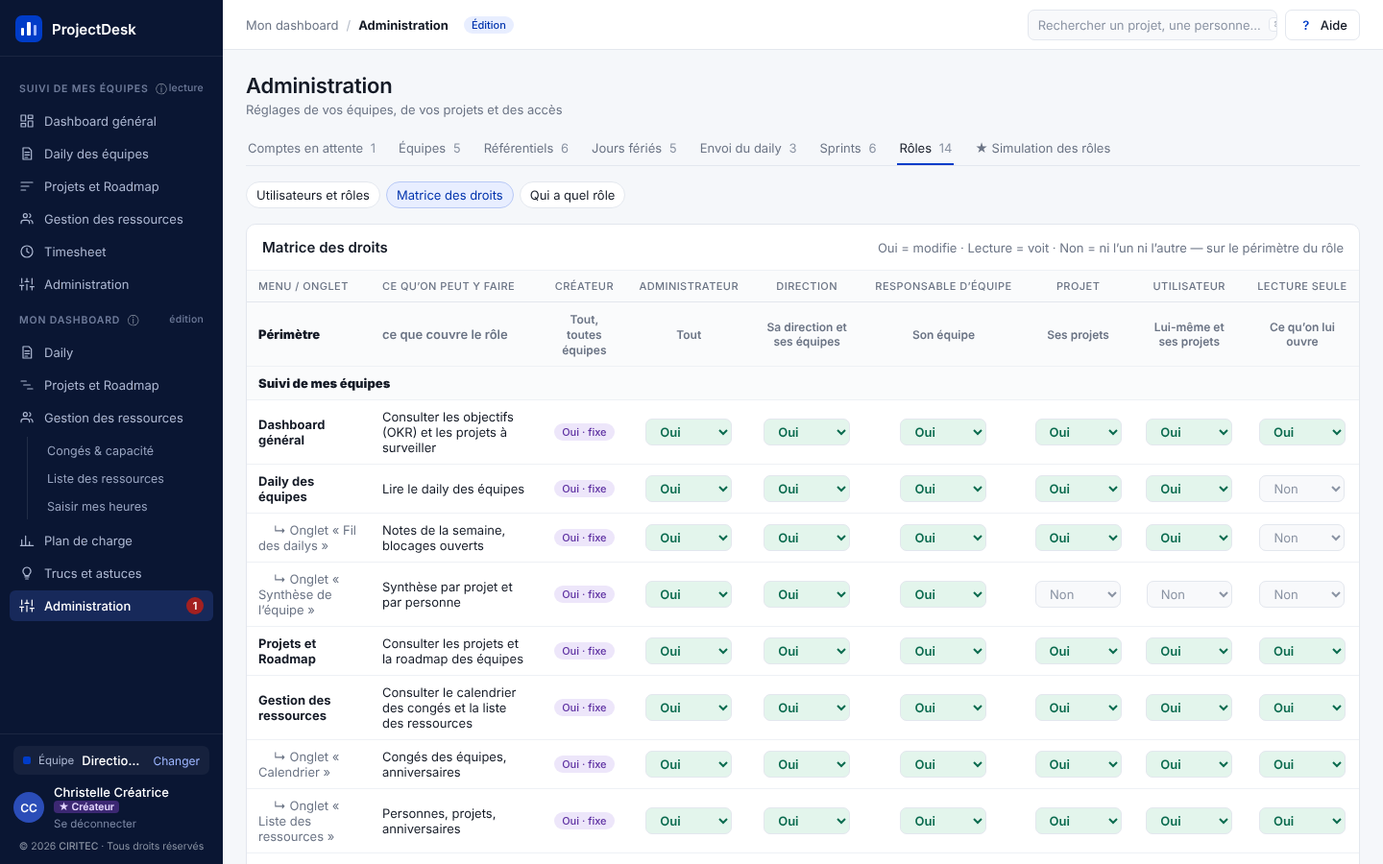
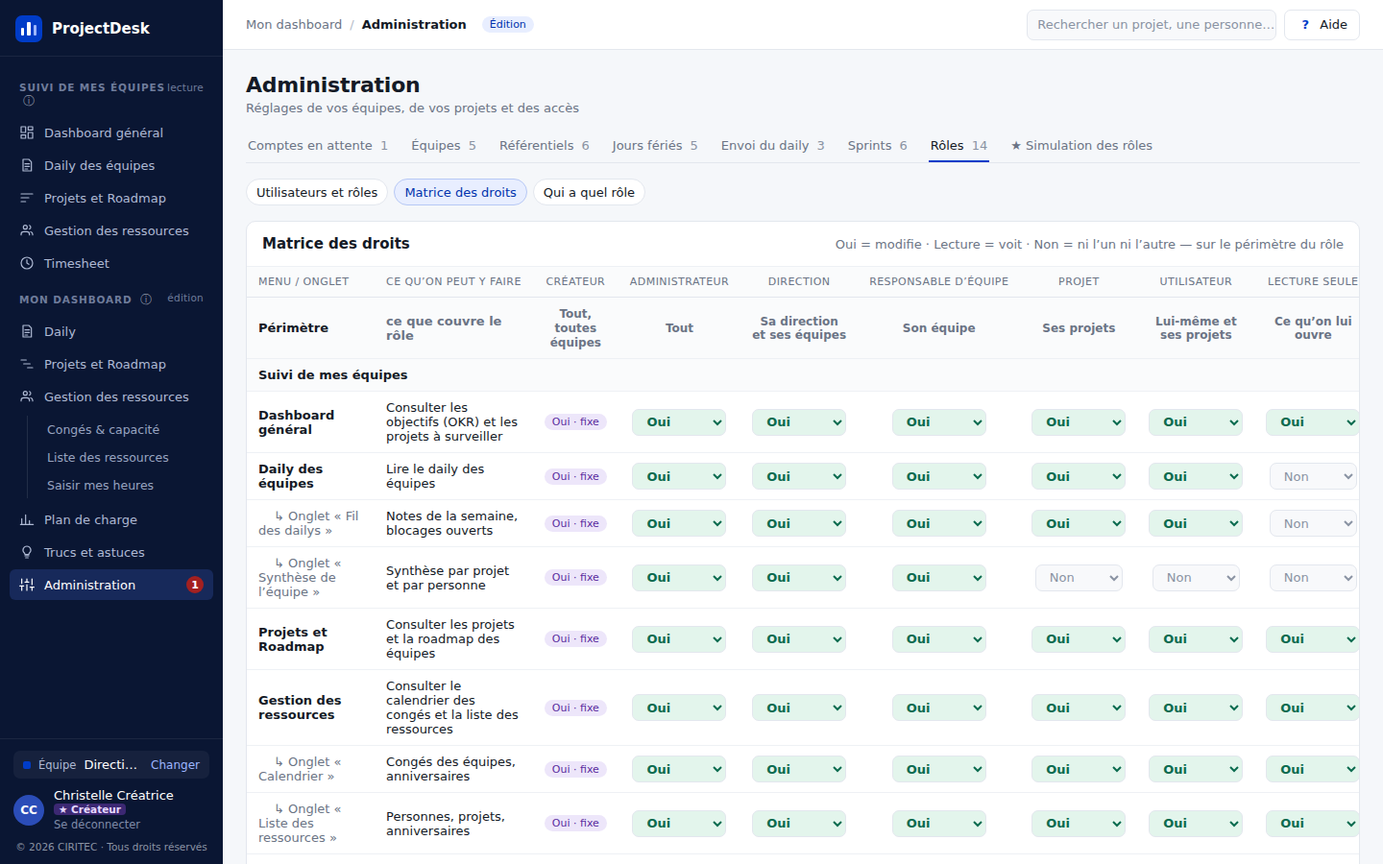
2.24 — Menu Administration retiré de Suivi de mes équipes (tous les rôles)
Claude-Session: https://claude.ai/code/session_0187v8SY8uiT6dnWqjjqJYb6

diff --git a/tests/parcours.js b/tests/parcours.js
@@ -138,27 +138,9 @@ const verifier = (nom, condition, detail = '') => { resultats.push({ nom, ok: !!
     await page.evaluate(() => majUi('ressources', { equipeId: '', statut: '', q: '' })); await page.waitForTimeout(150);
     await capture('05b-ressources-liste');
     await page.click('[data-action="ongletRessources"][data-id="calendrier"]');
-    await aller('administration'); await capture('06-administration');
-    // Rôles et accès (2026-10-16) : un rôle par ligne (sans le créateur), portée, fonctionnalités modifiées / consultées
-    await page.click('[data-action="ongletAdministration"][data-id="roles"]'); await page.waitForTimeout(150);
-    const acces = await page.evaluate(() => ({ roles: [...document.querySelectorAll('.contenu table thead th')].slice(2).map(t => t.textContent.trim()),
-      sections: [...document.querySelectorAll('.contenu table tbody tr.groupe')].map(t => t.textContent.trim()) }));
-    const celluleAcces = '.contenu select[data-action-change="majDroit"][data-role="lecture"][data-droit="daily_equipes"]';
-    const niveauAvant = await page.inputValue(celluleAcces), niveauEssai = niveauAvant === 'lecture' ? 'non' : 'lecture';
-    await page.selectOption(celluleAcces, niveauEssai); await page.waitForTimeout(400);
-    const accesEnregistre = await page.evaluate(n => etat.d.droitsRoles.find(d => d.role === 'lecture' && d.droit === 'daily_equipes').niveau === n, niveauEssai);
-    await page.selectOption(celluleAcces, niveauAvant); await page.waitForTimeout(400);
-    verifier('Administration › Rôles et accès : matrice sans le créateur, sections Suivi de mes équipes / Mon dashboard, modifiable',
-      acces.roles.length === 6 && !acces.roles.includes('Créateur') && acces.roles[0] === 'Administrateur'
-      && acces.sections[1] === 'Suivi de mes équipes' && acces.sections[2] === 'Mon dashboard' && accesEnregistre
-      && await page.evaluate(() => DROITS.filter(d => d.section === 'suivi' && !d.onglet).length === 7), JSON.stringify(acces));
-    // Droits par onglet (maquette matrice-par-onglet/, migration 038) : une ligne « ↳ Onglet » par onglet, modifiable
-    verifier('Matrice des droits : une ligne par onglet (Fil des dailys, Synthèse…), cases modifiables', await page.evaluate(() =>
-      document.querySelectorAll('.contenu .tableau-matrice .ligne-onglet').length === DROITS.filter(d => d.onglet).length
-      && document.querySelector('.contenu .tableau-matrice').textContent.includes('↳ Onglet « Synthèse de l’équipe »')
-      && !document.querySelector('.contenu select[data-role="responsable"][data-droit="onglet_daily_synthese"]').disabled));
-    await capture('06b-administration-roles');
-    await page.click('[data-action="ongletAdministration"][data-id="equipes"]');
+    // Pas de menu Administration dans Suivi de mes équipes, pour aucun rôle (porteur, 2026-10-22)
+    verifier('Suivi de mes équipes : pas de menu Administration', !(await page.$('.laterale [data-action="aller"][data-ecran="administration"]'))
+      && !!(await page.$('.laterale [data-action="aller"][data-ecran="monAdmin"]')));
     await aller('timesheet'); await page.click('[data-action="moisTempsPrecedent"]'); await page.click('[data-action="moisTempsSuivant"]');
     await page.evaluate(() => majUi('moisTemps', { annee: 2026, mois: 8 })); await page.waitForTimeout(150);   // mois des données simulées
     verifier('Timesheet (Suivi de mes équipes) : feuilles du mois par personne', (await texte()).includes('septembre 2026') && (await texte()).includes('Saisi / attendu'));
@@ -167,10 +149,9 @@ const verifier = (nom, condition, detail = '') => { resultats.push({ nom, ok: !!
     /* --- Règle : la section « Suivi de mes équipes » (ex-« Général ») est en lecture seule ---
        Aucun champ, formulaire ou action d'écriture (tous onglets), sauf la validation des feuilles de temps. */
     const ACTIONS_LECTURE = ['aller', 'ouvrirProjet', 'fermer', 'choisirTrimestre', 'filtrerEquipeProjets', 'deplierProjet',
-      'moisPrecedent', 'moisSuivant', 'calendrierAujourdhui', 'moisTempsPrecedent', 'moisTempsSuivant', 'ongletAdministration', 'choisirReferentiel',
+      'moisPrecedent', 'moisSuivant', 'calendrierAujourdhui', 'moisTempsPrecedent', 'moisTempsSuivant',
       'filtrerDailyEquipes', 'dailyEquipesAujourdhui', 'dailyEquipesDecaler', 'filtrerPersonneDaily', 'ongletDailyEquipes',
       'choisirCaseDaily', 'fermerCaseDaily', 'decalerCaseDaily', 'vueCalendrier', 'projetCalendrier',
-      'majDroit',   // Administration › Rôles et accès : matrice des droits modifiable (porteur 2026-10-18)
       'ongletRessources', 'filtrerEquipeRessources', 'filtrerStatutRessources', 'rechercherRessource',
       'ouvrirExportDaily',    // export Excel : lecture seule (téléchargement de ce qui est affiché)
       'validerFeuille', 'renvoyerFeuille'];   // seule exception : validation des feuilles par le responsable (Timesheet)
@@ -178,12 +159,11 @@ const verifier = (nom, condition, detail = '') => { resultats.push({ nom, ok: !!
       (els, permises) => els.map(e => e.dataset.actionChange || e.dataset.actionSaisie || e.dataset.actionEnvoi || e.dataset.action)
         .filter(a => a && !permises.includes(a)), ACTIONS_LECTURE);
     const interdites = [];
-    for (const ecran of ['dashboard', 'projets', 'ressources', 'timesheet', 'dailyEquipes', 'administration']) {
+    for (const ecran of ['dashboard', 'projets', 'ressources', 'timesheet', 'dailyEquipes']) {
       await aller(ecran);
       if (ecran === 'ressources') {
         for (const onglet of ['calendrier', 'liste']) { await page.click(`[data-action="ongletRessources"][data-id="${onglet}"]`); await page.waitForTimeout(150); interdites.push(...await ecritures()); }
-      } else if (ecran === 'administration') {
-        for (const onglet of ['equipes', 'referentiels', 'roles']) { await page.click(`[data-action="ongletAdministration"][data-id="${onglet}"]`); await page.waitForTimeout(150); interdites.push(...await ecritures()); }
+
       } else interdites.push(...await ecritures());
     }
     await aller('projets'); await page.click('tr.cliquable[data-action="ouvrirProjet"]'); await page.waitForTimeout(200);
@@ -850,6 +830,12 @@ const verifier = (nom, condition, detail = '') => { resultats.push({ nom, ok: !!
     const verrou = await page.$eval(cellule('admin', 'roles'), el => el.disabled);
     await page.selectOption(cellule('utilisateur', 'projets'), 'oui'); await page.waitForTimeout(400);
     const enregistre = await page.evaluate(() => etat.d.droitsRoles.find(d => d.role === 'utilisateur' && d.droit === 'projets').niveau === 'oui');
+    const sectionsMatrice = await page.$$eval('.tableau-matrice tbody tr.groupe', t => t.map(x => x.textContent.trim()));
+    verifier('Matrice des droits : sections Suivi de mes équipes / Mon dashboard, une ligne par onglet modifiable',
+      sectionsMatrice.includes('Suivi de mes équipes') && sectionsMatrice.includes('Mon dashboard') && await page.evaluate(() =>
+        document.querySelectorAll('.tableau-matrice .ligne-onglet').length === DROITS.filter(d => d.onglet).length
+        && document.querySelector('.tableau-matrice').textContent.includes('↳ Onglet « Synthèse de l’équipe »')
+        && !document.querySelector('select[data-role="responsable"][data-droit="onglet_daily_synthese"]').disabled), sectionsMatrice.join(' | '));
     await capture('32-matrice-droits');
     await page.selectOption(cellule('utilisateur', 'projets'), 'lecture'); await page.waitForTimeout(400);
     await page.click('[data-action="vueRoles"][data-vue="qui"]'); await page.waitForTimeout(200);
@@ -884,8 +870,7 @@ const verifier = (nom, condition, detail = '') => { resultats.push({ nom, ok: !!
     });
     verifier('Matrice par menu : menu de Suivi masqué si « Non », repli sur l’ancien droit avant la migration 037',
       parMenu.masque && parMenu.repli, JSON.stringify(parMenu));
-    await aller('administration');
-    verifier('Administration › Rôles et accès : onglet absent pour un membre', !(await page.$('[data-action="ongletAdministration"][data-id="roles"]')));
+    verifier('Simulation : pas de menu Administration dans Suivi de mes équipes (membre)', !(await page.$('.laterale [data-ecran="administration"]')));
     await aller('daily'); await page.waitForTimeout(300);
     // Sa note du dernier jour de semaine : dans le texte, ou en « Rappel d'hier » (attribut placeholder) un samedi ou un dimanche
     verifier('Simulation : écrans de la personne (son daily par projet)', (await texte()).includes('SSO & gestion des droits')

diff --git a/app/index.html b/app/index.html
@@ -11,7 +11,7 @@
 <link href="https://fonts.googleapis.com/css2?family=IBM+Plex+Sans:wght@400;500;600;700&family=IBM+Plex+Mono:wght@400;500&display=swap" rel="stylesheet">
 <!-- ?v= : version des fichiers (= version du DAT), à changer à chaque livraison : force le navigateur
      à recharger le code au lieu de réutiliser une ancienne copie en mémoire. -->
-<link rel="stylesheet" href="css/theme.css?v=2.23">
+<link rel="stylesheet" href="css/theme.css?v=2.24">
 </head>
 <body>
   <!-- Toute l'interface est dessinée dans #app par js/coquille.js et js/ecrans/*.js -->
@@ -19,33 +19,33 @@
   <div id="notification" class="notification" role="status"></div>
 
   <!-- Ordre de chargement : configuration, outils, état, puis écrans (qui s'enregistrent dans Ecrans) -->
-  <script src="js/config.js?v=2.23"></script>
-  <script src="js/api.js?v=2.23"></script>
-  <script src="js/calculs.js?v=2.23"></script>
-  <script src="js/etat.js?v=2.23"></script>
-  <script src="js/composants.js?v=2.23"></script>
-  <script src="js/coquille.js?v=2.23"></script>
-  <script src="js/panneau-projet.js?v=2.23"></script>
-  <script src="js/modale.js?v=2.23"></script>
-  <script src="js/excel.js?v=2.23"></script>
-  <script src="js/roles.js?v=2.23"></script>
-  <script src="js/simulation.js?v=2.23"></script>
-  <script src="js/ecrans/connexion.js?v=2.23"></script>
-  <script src="js/ecrans/choix-equipe.js?v=2.23"></script>
-  <script src="js/ecrans/dashboard.js?v=2.23"></script>
-  <script src="js/ecrans/projets.js?v=2.23"></script>
-  <script src="js/ecrans/ressources.js?v=2.23"></script>
-  <script src="js/ecrans/administration.js?v=2.23"></script>
-  <script src="js/ecrans/timesheet.js?v=2.23"></script>
-  <script src="js/ecrans/daily-equipes.js?v=2.23"></script>
-  <script src="js/ecrans/daily.js?v=2.23"></script>
-  <script src="js/ecrans/mes-projets.js?v=2.23"></script>
-  <script src="js/ecrans/conges.js?v=2.23"></script>
-  <script src="js/ecrans/capacite.js?v=2.23"></script>
-  <script src="js/ecrans/liste-ressources.js?v=2.23"></script>
-  <script src="js/ecrans/mon-timesheet.js?v=2.23"></script>
-  <script src="js/ecrans/previsionnel.js?v=2.23"></script>
-  <script src="js/ecrans/mon-admin.js?v=2.23"></script>
-  <script src="js/ecrans/astuces.js?v=2.23"></script>
+  <script src="js/config.js?v=2.24"></script>
+  <script src="js/api.js?v=2.24"></script>
+  <script src="js/calculs.js?v=2.24"></script>
+  <script src="js/etat.js?v=2.24"></script>
+  <script src="js/composants.js?v=2.24"></script>
+  <script src="js/coquille.js?v=2.24"></script>
+  <script src="js/panneau-projet.js?v=2.24"></script>
+  <script src="js/modale.js?v=2.24"></script>
+  <script src="js/excel.js?v=2.24"></script>
+  <script src="js/roles.js?v=2.24"></script>
+  <script src="js/simulation.js?v=2.24"></script>
+  <script src="js/ecrans/connexion.js?v=2.24"></script>
+  <script src="js/ecrans/choix-equipe.js?v=2.24"></script>
+  <script src="js/ecrans/dashboard.js?v=2.24"></script>
+  <script src="js/ecrans/projets.js?v=2.24"></script>
+  <script src="js/ecrans/ressources.js?v=2.24"></script>
+  <script src="js/ecrans/administration.js?v=2.24"></script>
+  <script src="js/ecrans/timesheet.js?v=2.24"></script>
+  <script src="js/ecrans/daily-equipes.js?v=2.24"></script>
+  <script src="js/ecrans/daily.js?v=2.24"></script>
+  <script src="js/ecrans/mes-projets.js?v=2.24"></script>
+  <script src="js/ecrans/conges.js?v=2.24"></script>
+  <script src="js/ecrans/capacite.js?v=2.24"></script>
+  <script src="js/ecrans/liste-ressources.js?v=2.24"></script>
+  <script src="js/ecrans/mon-timesheet.js?v=2.24"></script>
+  <script src="js/ecrans/previsionnel.js?v=2.24"></script>
+  <script src="js/ecrans/mon-admin.js?v=2.24"></script>
+  <script src="js/ecrans/astuces.js?v=2.24"></script>
 </body>
 </html>

diff --git a/app/js/ecrans/administration.js b/app/js/ecrans/administration.js
@@ -1,12 +1,8 @@
 /* ============================================================
-   Suivi de mes équipes › Administration (maquette 04-gAdmin.png) — LECTURE SEULE
-   Onglets Équipes, Référentiels (champs du formulaire de demande retirés le 2026-10-05 :
-   demandes gérées dans Azure DevOps).
-   Règle : la section « Suivi de mes équipes » ne modifie jamais rien. Les
-   modifications se font dans Mon dashboard › Administration
-   (administrateurs globaux ; contrôlé aussi par la base).
-   Les tableaux « Équipes » et « Référentiels » sont partagés avec
-   Mon admin via le paramètre « modifiable ».
+   Administration — tableaux « Équipes » et « Référentiels » de Mon dashboard › Administration
+   (mon-admin.js), consultation ou modification selon le paramètre « modifiable ».
+   Plus de menu Administration dans Suivi de mes équipes (porteur, 2026-10-22).
+   Champs du formulaire de demande retirés le 2026-10-05 (demandes gérées dans Azure DevOps).
    ============================================================ */
 'use strict';
 
@@ -54,34 +50,7 @@ const Administration = {
   }
 };
 
-Ecrans.administration = {
-  titre: 'Administration',
-  section: 'general',
-  rendre() {
-    /* Onglets selon leur droit (matrice, migration 038). « Rôles et accès » (au départ : administrateurs) : matrice
-       des droits sans la colonne Créateur, modifiable avec le droit « roles » (porteur 2026-10-18) — seconde
-       exception à la lecture seule de la section, après la validation des feuilles de temps */
-    const liste = ongletsPermis('administration', [
-      { id: 'equipes', libelle: 'Équipes', compte: etat.d.equipes.length },
-      Administration.ongletReferentiels(),
-      { id: 'roles', libelle: 'Rôles et accès', compte: ROLES_CHOISISSABLES.length }
-    ]);
-    const onglet = ongletAffiche(liste, ui('administration', { onglet: 'equipes' }).onglet);
-    const onglets = onglet ? C.onglets(liste, onglet, 'ongletAdministration') : '';
-    const corps = !onglet ? C.aucunOnglet()
-      : onglet === 'referentiels' ? Administration.referentiels(false)
-      : onglet === 'roles' ? Roles.matrice(false) : Administration.equipes(false);
-    const lienEdition = etat.estAdmin ? `<button class="btn" data-action="aller" data-ecran="monAdmin">Modifier (Mon dashboard › Administration)</button>` : '';
-    return `
-    <div class="ecran">
-      ${C.entete('Administration', 'Équipes et référentiels · consultation', lienEdition)}
-      ${onglets}${corps}
-    </div>`;
-  }
-};
-
 Object.assign(Actions, {
-  ongletAdministration: d => majUi('administration', { onglet: d.id }),
   choisirReferentiel: d => majUi('referentiels', { id: d.id }),
   nouvelleEquipe: () => majEtat({ modale: { type: 'equipe', id: null } }),
   // (modifierEquipe est défini dans modale.js : il charge aussi les membres de l'équipe)

diff --git a/app/js/config.js b/app/js/config.js
@@ -100,13 +100,6 @@ const DROITS = [
     libelle: 'Personnes, projets, anniversaires', repli: 'suivi_ressources' },
   { cle: 'suivi_timesheet', section: 'suivi', menu: 'Timesheet', libelle: 'Consulter les feuilles de temps des équipes', repli: 'general' },
   { cle: 'valider_timesheet', section: 'suivi', menu: 'Timesheet', libelle: 'Valider / renvoyer les feuilles de temps' },
-  { cle: 'suivi_administration', section: 'suivi', menu: 'Administration', libelle: 'Consulter les équipes, les référentiels, les rôles et accès', repli: 'general' },
-  { cle: 'onglet_suivi_equipes', section: 'suivi', menu: 'Administration', onglet: 'Équipes', ecran: 'administration', id: 'equipes',
-    libelle: 'Équipes et membres (consultation)', repli: 'suivi_administration' },
-  { cle: 'onglet_suivi_referentiels', section: 'suivi', menu: 'Administration', onglet: 'Référentiels', ecran: 'administration', id: 'referentiels',
-    libelle: 'Listes de valeurs (consultation)', repli: 'suivi_administration' },
-  { cle: 'onglet_suivi_roles', section: 'suivi', menu: 'Administration', onglet: 'Rôles et accès', ecran: 'administration', id: 'roles',
-    libelle: 'Matrice des droits', repli: 'roles' },
   { cle: 'mon_dashboard', section: 'dashboard', menu: 'Daily · Saisir mes heures', libelle: 'Saisir son daily, ses heures et ses congés' },
   { cle: 'projets', section: 'dashboard', menu: 'Projets et Roadmap', libelle: 'Projets, roadmap, objectifs, sprints, capacité' },
   { cle: 'conges_equipe', section: 'dashboard', menu: 'Congés & capacité', libelle: 'Congés et objectif de jours des autres' },
@@ -287,7 +280,6 @@ const GUIDE_ECRANS = {
   projets: ['Tous les projets, groupés par équipe, en lecture seule.', 'Filtrez par équipe en haut à droite ; un clic sur une ligne ouvre le détail du projet.'],
   ressources: ['Calendrier mensuel des absences et annuaire de toutes les personnes, en lecture seule.',
     'Pour poser un congé : Mon dashboard › Gestion des ressources › Congés & capacité.'],
-  administration: ['Consultation des équipes et des référentiels.', 'Pour les modifier (administrateurs) : Mon dashboard › Administration.'],
   timesheet: ['Heures déclarées par personne sur un mois (saisie mensuelle), avec la complétude et le statut de chaque feuille.', 'Changez de mois avec les flèches.'],
   dailyEquipes: ['Le daily de vos projets pour un jour donné, et les blocages signalés. Le responsable d’une unité voit tous les projets ' +
     'de son unité et des équipes rattachées.', 'Filtrez par projet ; changez de jour avec les flèches. Les absents (congés) sont signalés.'],

diff --git a/app/js/coquille.js b/app/js/coquille.js
@@ -34,8 +34,8 @@ const Coquille = (() => {
     { id: 'dailyEquipes', libelle: 'Daily des équipes', icone: 'daily', droit: 'daily_equipes' },
     { id: 'projets', libelle: 'Projets et Roadmap', icone: 'proj', droit: 'suivi_projets' },
     { id: 'ressources', libelle: 'Gestion des ressources', icone: 'ress', droit: 'suivi_ressources' },
-    { id: 'timesheet', libelle: 'Timesheet', icone: 'time', droit: 'suivi_timesheet' },
-    { id: 'administration', libelle: 'Administration', icone: 'admin', droit: 'suivi_administration' }
+    // Pas d'Administration dans Suivi de mes équipes (porteur, 2026-10-22) : elle est dans Mon dashboard
+    { id: 'timesheet', libelle: 'Timesheet', icone: 'time', droit: 'suivi_timesheet' }
   ];
   const MENU_MOI = [
     { id: 'daily', libelle: 'Daily', icone: 'daily' },

diff --git a/docs/DAT.md b/docs/DAT.md
@@ -138,6 +138,7 @@
 | 2.21    | 2026-10-18 | **Matrice des droits par onglet** (porteur : « attention aux onglets dans chaque page … exemple dans Daily, il y a un onglet fil et un onglet synthèse » ; maquette `matrice-par-onglet/` validée « ok ») : sous chaque menu, une ligne « ↳ Onglet « … » » par onglet, réglable Oui / Lecture / Non (`DROITS`, propriétés `onglet`, `ecran`, `id` ; `Roles.lignesSection`) ; 20 nouveaux droits `onglet_…` (Daily des équipes, Gestion des ressources, Suivi › Administration, Congés & capacité, Plan de charge, Mon dashboard › Administration, Trucs et astuces) ; Comptes en attente, Rôles et Nommer un administrateur reprennent leurs droits existants. Onglet masqué si « Non », menu masqué si tous ses onglets le sont (`ongletPermis`, `ecranOuvert`, `menuOuvert`, `C.aucunOnglet`). Daily des équipes : `voitSynthese` remplacé par le droit `onglet_daily_synthese`. Jours fériés : consultation sans le droit « administration » ; sous-titre de Mon dashboard › Administration simplifié. **Migration 038 à appliquer** (additive : contrainte élargie + 120 lignes `droits_roles`, chacune au niveau de son droit de départ) — d'ici là, chaque onglet reprend le niveau de son droit de départ (`repli`) et sa case est figée. 138 contrôles (§ 3.2, § 4, § 5.2) |
 | 2.22    | 2026-10-22 | **Simulation des rôles alignée sur les 6 rôles d'accès** (porteur : « je n'ai pas les mêmes rôles » ; maquette `simulation-six-roles/` validée « ok ») : cartes Administrateur, Direction, Responsable d'équipe, Projet, Utilisateur, Lecture seule (libellés, descriptions et couleurs de `ROLES_ACCES`) + Compte en attente ; « En tant que » propose toutes les personnes reliées à un compte (celles qui ont le rôle en tête) et le rôle de la carte s'applique le temps de la simulation (`monRole`), ses équipes et projets restant les siens. **Matrice (donnée, pas de code)** : à la demande du porteur, droit `suivi_timesheet` passé à « Non » pour Utilisateur et Lecture seule (menu Timesheet de Suivi de mes équipes réservé à Administrateur, Direction, Responsable d'équipe, Projet). 139 contrôles (§ 2, § 3.3) |
 | 2.23    | 2026-10-22 | **Plan de charge réservé au créateur** (porteur : « plan de charge doit être visible uniquement pour le créateur ») : `Previsionnel.estVisible` = `etat.estCreateur` (menu Mon dashboard › Plan de charge et écran) ; les lignes Plan de charge de la matrice n'ont plus d'effet sur ce menu, le droit « piloter » règle toujours l'envoi du daily. Aucun changement en base. 139 contrôles (§ 3.3) |
+| 2.24    | 2026-10-22 | **Menu Administration retiré de Suivi de mes équipes**, pour tous les rôles (porteur : « dans suivi de mes équipes je ne veux pas le menu administration ») : écran `administration` (consultation, onglets Équipes / Référentiels / Rôles et accès) supprimé ; `administration.js` ne garde que les tableaux Équipes et Référentiels de Mon dashboard › Administration ; la matrice des droits se règle dans Mon dashboard › Administration › Rôles (sections et lignes d'onglets contrôlées là). Droits `suivi_administration`, `onglet_suivi_*` retirés de la matrice (lignes conservées en base, sans effet). Suivi de mes équipes redevient strictement en lecture seule, sauf la validation des feuilles. Captures `06-administration`, `06b-administration-roles` retirées. 139 contrôles (§ 2, § 3.2) |
 | 1.44    | 2026-09-27 | Calcul type Scrum : formule déplacée dans une pop-in (bouton « Comment est-ce calculé ? » en haut à droite), avec un exemple chiffré sur CDO (membres, jours ouvrés, absences, cérémonies, focus) (§ 2.1, § 3.3) |
 
 ---
@@ -154,8 +155,7 @@ La barre latérale a deux sections :
 - **Suivi de mes équipes** (ex-« Général », renommée le 2026-10-12 ; identifiant `general` ; badge « Lecture seule ») :
   vue consolidée de **toutes** les équipes — **aucune modification possible** dans cette section, y compris
   pour un administrateur, **sauf la validation des feuilles de temps** par le responsable de l'équipe
-  (Timesheet) **et la matrice des droits** d'Administration › Rôles et accès (administrateurs et créateur, droit
-  « roles », 2.18) ; règle vérifiée automatiquement par `tests/parcours.js`. Menus dans l'ordre de Mon dashboard ;
+  (Timesheet) ; pas de menu Administration dans cette section depuis 2.24 (elle est dans Mon dashboard) ; règle vérifiée automatiquement par `tests/parcours.js`. Menus dans l'ordre de Mon dashboard ;
 - **Mon dashboard** (badge « Édition ») : ce que l'utilisateur modifie (ses notes, ses projets,
   les congés et affectations de ses équipes, ses heures, les demandes de son équipe).
 
@@ -244,7 +244,6 @@ Captures de l'application : `docs/maquettes/etat-actuel/` (générées par `test
 | `dashboard` | `dashboard.js` | KPI, objectifs du trimestre (T1–T4), progression par trimestre et par équipe, projets à surveiller | `03-dashboard.png` |
 | `projets` | `projets.js` | Projets groupés par équipe, filtre d'équipe, panneau en lecture | `04-projets.png` |
 | `ressources` | `ressources.js` | Deux onglets (2.17). **Calendrier** : calendrier mensuel des absences (composant `Calendrier`, personnes présentes sur le mois), 🎂 le jour de l'anniversaire d'une personne sans absence. **Liste des ressources** : annuaire de **toutes** les fiches — recherche par nom, filtres Équipe et Statut, colonnes Nom, Équipe, Poste, Projets (nom et rôle, 2.18), Capacité, **Statut** (Actif / Inactif dès qu'une date de fin est saisie, « fin le … », inactifs grisés en fin de liste), **Anniversaire** (jour et mois, 🎂 si c'est le mois en cours) et rappel « Anniversaires du mois » (personnes actives) | `05-ressources.png`, `05b-ressources-liste.png` |
-| `administration` | `administration.js` | Onglets Équipes / Référentiels, **consultation** (lien vers Mon dashboard › Administration pour les administrateurs) ; onglet **Rôles et accès** (2.18 ; au départ administrateurs, droit `onglet_suivi_roles` depuis 2.21) : matrice des droits sans la colonne Créateur — portée de chaque rôle, droits en deux sections Suivi de mes équipes / Mon dashboard, **modifiable** avec le droit « roles » | `06-administration.png`, `06b-administration-roles.png` |
 | `timesheet` | `timesheet.js` | Feuilles **du mois** par personne, toutes équipes (navigation `MoisTemps`) : projets, saisi / attendu, complétude, statut (`tableauFeuilles`). **Suivi et validation** (depuis 1.89, maquette `menus-general/`) : le responsable d'une équipe y **valide ou renvoie** les feuilles soumises de ses équipes (seule écriture de la section) ; indicateur « Feuilles à valider » | `07-timesheet.png`, `20-timesheet-validation.png` |
 | `dailyEquipes` | `daily-equipes.js` | **Daily des équipes à la semaine** (maquettes `daily-equipes-design/retenu/`, depuis 2.14) : projets dont je peux lire le daily (`peutLireDailyProjet` = règle `peut_lire_daily_projet` en base : affecté(e) au projet ; responsable de l'unité du projet ou d'une unité parente ; administrateur) ; semaine du lundi au vendredi ouvrés (`joursSemaine`), « Cette semaine », ‹ › par semaine. Onglet **Fil des dailys** (droit `onglet_daily_fil`) : dailys groupés par jour (plus récent d'abord) avec l'heure d'enregistrement et les blocages en pastilles, filtres projets / personnes (compteurs), **Blocages ouverts** (« depuis N j ») et résumé du jour. Onglet **Synthèse de l'équipe** (droit `onglet_daily_synthese` ; au départ administrateurs, direction et responsables) : indicateurs de la semaine, carte membre × jour (✓ daily, ⚠ blocage, — manquant, 🌴 absent ; « sans compte » compte comme manquant), clic sur une case → panneau de lecture. **Exporter en Excel** (maquette `export-daily-excel/`) : période (raccourcis ou dates libres, un an maximum) et projets cochés parmi ceux que je peux lire ; onglet « Daily » = une ligne par membre attendu, projet et jour ouvré (Date, Code projet, Projet, Personne, Statut Renseigné / Absent(e) / Manquant / Sans compte, Hier, Aujourd'hui, Blocages, Absence), onglet « Blocages » en option ; notes lues en base pour la période (la RLS ne renvoie que les notes lisibles). Lecture seule : rien n'est écrit | `17-daily-equipes.png`, `33-daily-synthese.png`, `22-export-daily-excel.png` |
 
